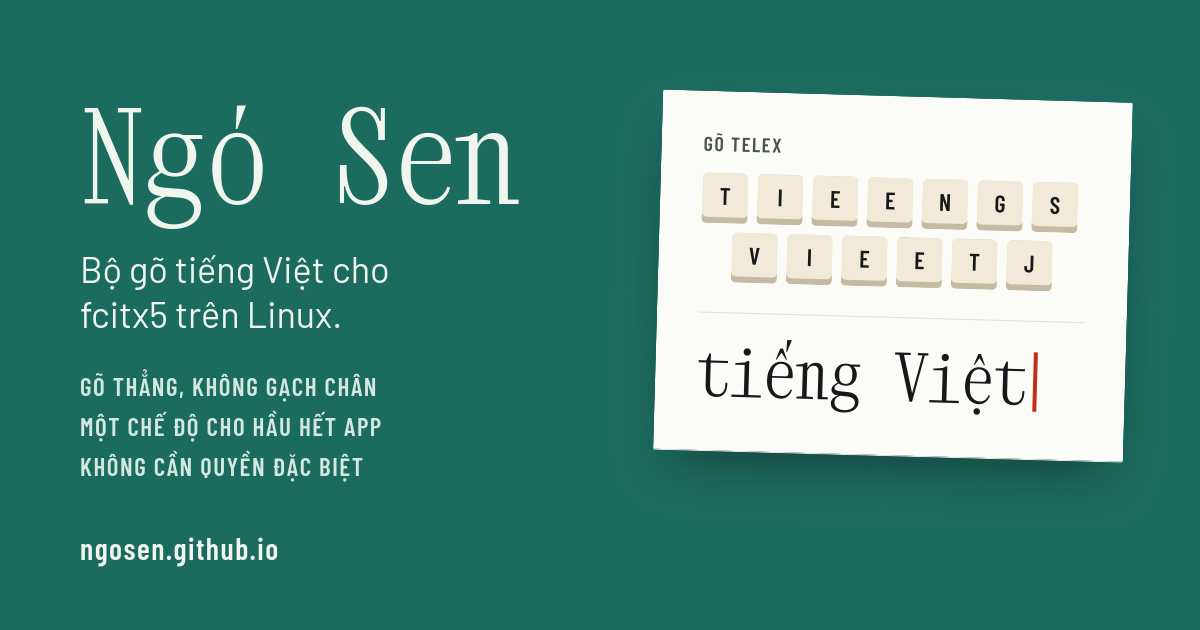
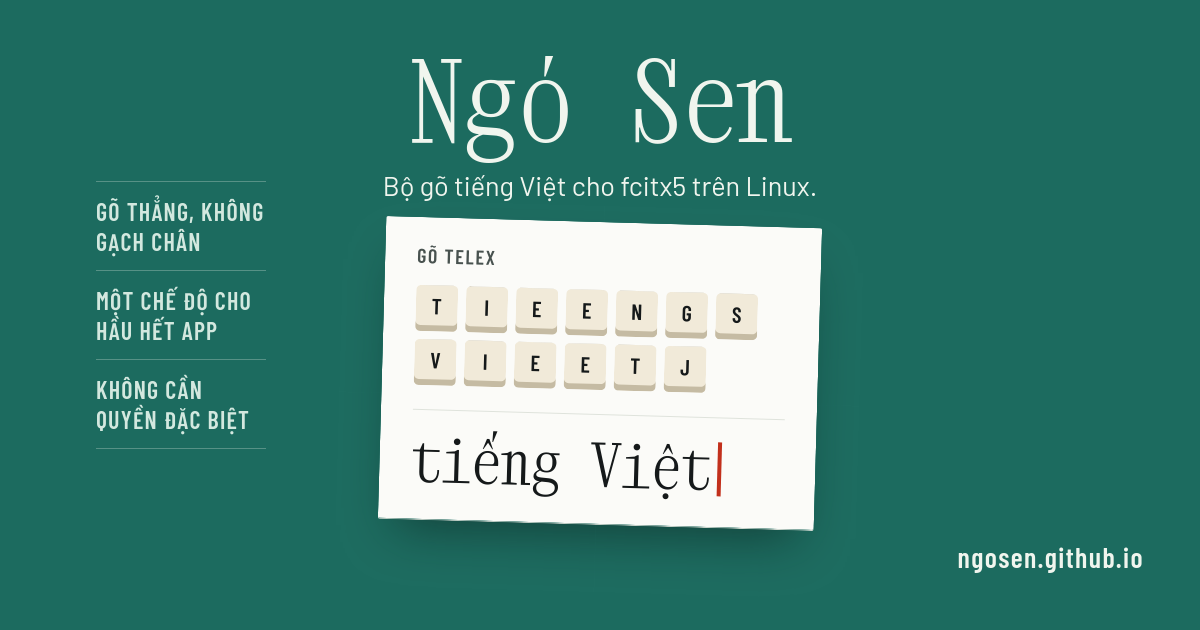
fix(og): keep the link preview readable when cropped to a square
Facebook comments and chat apps show the preview as a small square cut
from the centre of the image, which left only "Sen" and half the keys.
The name, tagline and typing sheet now sit inside the centre 630x630
square; the three points and the URL move to the side columns. The image
URL carries a version query so cached previews refresh.

Claude-Session: https://claude.ai/code/session_01JdXPM1moo4vhf7hRzhm7ds

diff --git a/tools/og/card.html b/tools/og/card.html
@@ -41,57 +41,75 @@
         position: relative;
       }
 
+      /* Small previews (Facebook comments, chat apps) crop the centre 630x630 square, so the name,
+         tagline and sheet stay inside x 285-915; the side columns are extras for the wide card. */
       .copy {
         position: absolute;
-        left: 80px;
-        top: 92px;
-        width: 520px;
+        left: 300px;
+        top: 44px;
+        width: 600px;
+        text-align: center;
       }
 
       h1 {
         font-family: 'Xanh Mono', monospace;
         font-weight: 400;
-        font-size: 128px;
+        font-size: 112px;
         line-height: 1;
         letter-spacing: -0.01em;
       }
 
       .tagline {
-        margin-top: 26px;
-        font-size: 36px;
+        margin-top: 12px;
+        font-size: 27px;
         line-height: 1.25;
         color: var(--on-enamel);
-        text-wrap: balance;
       }
 
       .points {
-        margin-top: 30px;
+        position: absolute;
+        left: 56px;
+        top: 50%;
+        width: 210px;
+        transform: translateY(-50%);
         font-family: 'Barlow Condensed', sans-serif;
         font-weight: 600;
-        font-size: 25px;
-        letter-spacing: 0.06em;
+        font-size: 24px;
+        letter-spacing: 0.05em;
         text-transform: uppercase;
         color: var(--on-enamel-muted);
-        line-height: 1.6;
+        line-height: 1.25;
+      }
+
+      .points li {
+        list-style: none;
+        padding: 14px 0;
+        border-top: 1px solid rgba(240, 245, 238, 0.28);
+      }
+
+      .points li:last-child {
+        border-bottom: 1px solid rgba(240, 245, 238, 0.28);
       }
 
       .url {
         position: absolute;
-        left: 80px;
-        bottom: 64px;
+        right: 56px;
+        bottom: 56px;
+        width: 210px;
+        text-align: right;
         font-family: 'Barlow Condensed', sans-serif;
         font-weight: 600;
-        font-size: 30px;
+        font-size: 28px;
         letter-spacing: 0.05em;
         color: var(--on-enamel);
       }
 
       .sheet {
         position: absolute;
-        right: 72px;
-        top: 96px;
-        width: 470px;
-        padding: 40px 42px 44px;
+        left: 382px;
+        top: 222px;
+        width: 436px;
+        padding: 26px 32px 28px;
         background: var(--paper);
         color: var(--ink);
         border-radius: 2px;
@@ -114,12 +132,12 @@
         margin-top: 18px;
         display: flex;
         flex-wrap: wrap;
-        gap: 9px;
+        gap: 8px;
       }
 
       .key {
-        width: 46px;
-        height: 50px;
+        width: 42px;
+        height: 46px;
         display: grid;
         place-items: center;
         background: var(--cap);
@@ -129,7 +147,7 @@
         padding-bottom: 6px;
         font-family: 'Barlow Condensed', sans-serif;
         font-weight: 600;
-        font-size: 24px;
+        font-size: 22px;
       }
 
       .key.space {
@@ -139,14 +157,14 @@
       }
 
       .rule {
-        margin: 30px 0 24px;
+        margin: 24px 0 18px;
         border: 0;
         border-top: 1px solid var(--paper-edge);
       }
 
       .typed {
         font-family: 'Xanh Mono', monospace;
-        font-size: 66px;
+        font-size: 60px;
         line-height: 1.05;
         white-space: nowrap;
       }
@@ -165,8 +183,12 @@
     <div class="copy">
       <h1>Ngó Sen</h1>
       <p class="tagline">Bộ gõ tiếng Việt cho fcitx5 trên Linux.</p>
-      <p class="points">Gõ thẳng, không gạch chân<br />Một chế độ cho hầu hết app<br />Không cần quyền đặc biệt</p>
     </div>
+    <ul class="points">
+      <li>Gõ thẳng, không gạch chân</li>
+      <li>Một chế độ cho hầu hết app</li>
+      <li>Không cần quyền đặc biệt</li>
+    </ul>
     <p class="url">ngosen.github.io</p>
 
     <div class="sheet" aria-hidden="true">

diff --git a/src/data/site.ts b/src/data/site.ts
@@ -2,6 +2,9 @@ export const REPO = 'https://github.com/ngosen/ngosen';
 // Pull requests up to 1.0.0-1 live in the old fork, archived when the project left the
 // fcitx5-lotus fork network; the new repository numbers its pull requests from #1 again.
 export const ARCHIVE_REPO = 'https://github.com/ngosen/ngosen-fork-archive';
+// Link preview image. Bump the query after re-rendering it: Facebook, Zalo and Telegram cache
+// previews by image URL.
+export const OG_IMAGE = '/og.png?v=2';
 export const INSTALL_COMMAND =
   'curl -fsSL https://raw.githubusercontent.com/ngosen/ngosen/main/install.sh | bash';
 

diff --git a/AGENTS.md b/AGENTS.md
@@ -51,7 +51,9 @@ or unit-test runner; `npm run build` type-checks content frontmatter and fails o
   starts a new, empty thread.
 - `public/og.png` is the link preview image, rendered from `tools/og/card.html` by
   `tools/og/render.sh`. Its tagline and three points copy `TAGLINE` and `HIGHLIGHTS`; re-render it
-  when those change.
+  when those change. Small previews (Facebook comments, chat apps) crop the centre 630×630 square, so
+  the name, tagline and sheet stay inside it. After re-rendering, bump the query in `OG_IMAGE`
+  (`src/data/site.ts`) so caches fetch the new image.
 
 ## Keeping up with the main repository
 
